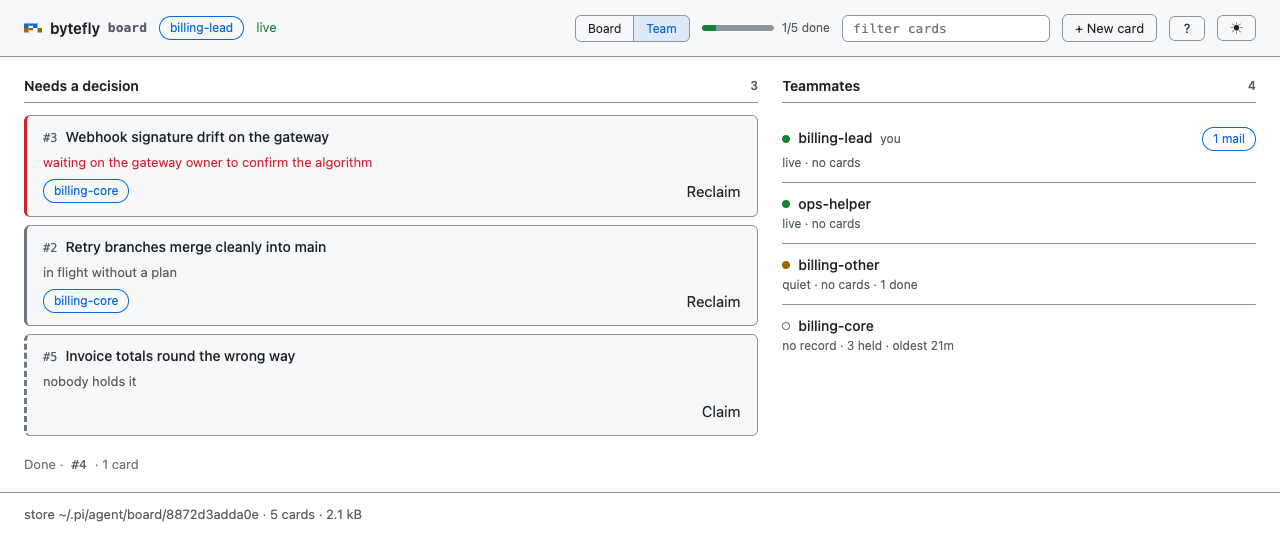
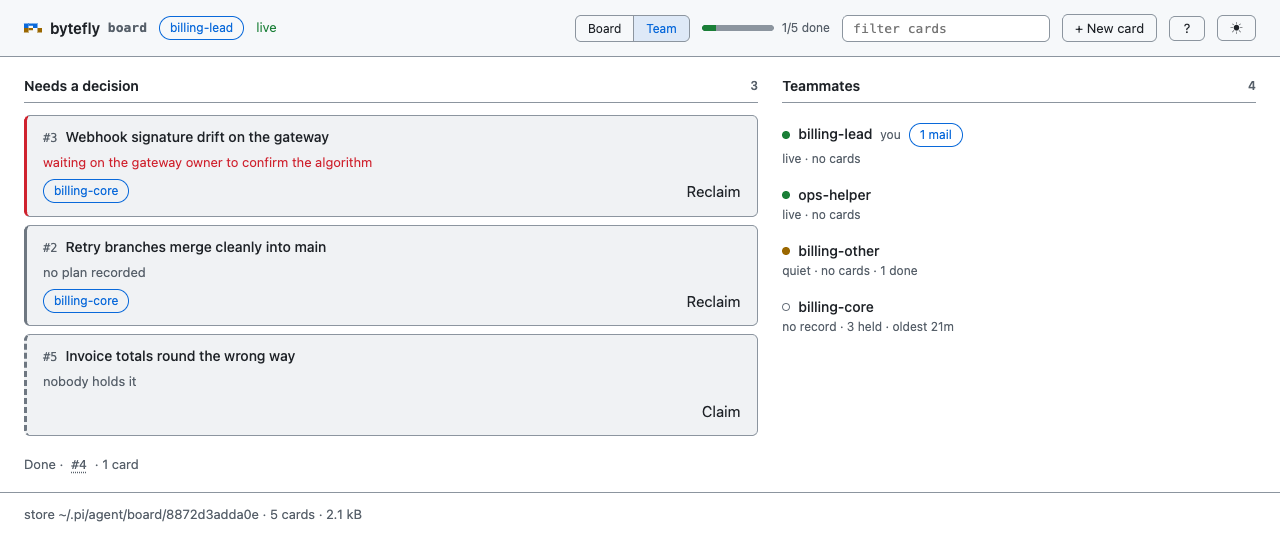
fix(board): take the outline weight down in the dark theme
Nine findings from a review of the cool theme, all of them about the page reading as
outlined boxes instead of a dashboard.

- The kit gains `--raised`: `--surface` mixed 6% toward `--text` in the dark theme and
  3% in the light one, because `--surface` on `--canvas` is 1.09:1 and a block that dark
  cannot lift off the page. The light step is smaller on purpose — at the dark step the
  light accent on a raised row falls to 4.34:1, below AA.
- Decision rows sit on it, and the roster drops the hairline it drew under every row:
  the caption's rule already delimits the list, and a second pen beside it was the same
  weight drawn twice.
- The Done lane sits on the page rather than on a surface, so history stops competing
  with the lanes a lead works in.
- The reason line stops speaking three grammars: a blocked card shows its last note
  without a `blocked:` prefix, an unplanned one says `no plan recorded`, a planned one
  says `planned` — the same words the Team tab's queue uses.
- A teammate's mail badge moves beside the name instead of flying to the row's far
  edge, the Done strip's ids wear a dotted line so they look like the buttons they are,
  and the two greys for quiet text become one.
- The note composer is one line of input rather than a second bordered footer.
- A dialog focuses its panel when the panel names itself focusable, so the ring lands
  on the window instead of the close button, and Shift+Tab still wraps inside the scrim.

diff --git a/extensions/board/view/styles.ts b/extensions/board/view/styles.ts
@@ -58,6 +58,7 @@ ${WEB_COMPONENTS_CSS}
 .board-lane__dot{width:var(--space-2);height:var(--space-2);border-radius:var(--radius-pill);background:var(--muted)}
 .board-lane[data-status="doing"] .board-lane__dot{background:var(--accent)}
 .board-lane[data-status="blocked"] .board-lane__dot{background:var(--danger)}
+.board-lane[data-status="done"]{background:var(--canvas)}
 .board-lane[data-status="done"] .board-lane__dot{background:var(--success)}
 .board-lane__list{display:flex;flex-direction:column;gap:var(--space-3);margin:0;padding:0;list-style:none}
 .board-lane__empty{margin:0;font:var(--fs-sm) var(--font-ui);color:var(--dim)}
@@ -91,7 +92,7 @@ ${WEB_COMPONENTS_CSS}
 .board-team__caption .bf-chip{margin-left:auto;font-variant-numeric:tabular-nums}
 /* The queue: one row per card, its kind as an edge, its way out in the foot. */
 .board-team__queue{display:flex;flex-direction:column;gap:var(--space-2);min-width:0}
-.board-team__decision{display:flex;flex-direction:column;gap:var(--space-2);padding:var(--space-3) var(--space-4);background:var(--surface);border:1px solid var(--border);border-left:3px solid var(--dim);border-radius:var(--radius-md);transition:border-color var(--motion-base) var(--motion-ease),transform var(--motion-base) var(--motion-ease)}
+.board-team__decision{display:flex;flex-direction:column;gap:var(--space-2);padding:var(--space-3) var(--space-4);background:var(--raised);border:1px solid var(--border);border-left:3px solid var(--dim);border-radius:var(--radius-md);transition:border-color var(--motion-base) var(--motion-ease),transform var(--motion-base) var(--motion-ease)}
 .board-team__decision:hover{border-color:var(--border-strong);transform:translateY(-1px)}
 .board-team__decision[data-kind="blocked"]{border-left-color:var(--danger)}
 .board-team__decision[data-kind="idle"]{border-left-color:var(--warn)}
@@ -108,21 +109,23 @@ ${WEB_COMPONENTS_CSS}
 /* A row with no owner chip still puts its one action on the row's edge. */
 .board-team__foot>.bf-btn:only-child{margin-left:auto}
 /* The roster: who is here and what they hold. No hover fill — nothing to open. */
-.board-team__roster{display:flex;flex-direction:column;margin:0;padding:0;list-style:none;min-width:0}
-.board-team__mate{display:flex;flex-wrap:wrap;align-items:baseline;gap:var(--space-1) var(--space-2);padding:var(--space-3) 0;border-bottom:1px solid var(--border);min-width:0}
-.board-team__mate:last-child{border-bottom:0}
+.board-team__roster{display:flex;flex-direction:column;gap:var(--space-1);margin:0;padding:0;list-style:none;min-width:0}
+/* No row rule: the caption already delimits the list, and a second hairline beside it
+   was the same pen drawn twice. */
+.board-team__mate{display:flex;flex-wrap:wrap;align-items:baseline;gap:var(--space-1) var(--space-2);padding:var(--space-2) 0;min-width:0}
 .board-team__dot{width:8px;height:8px;border-radius:var(--radius-pill);background:var(--muted);flex:0 0 auto;align-self:center}
 .board-team__mate[data-state="live"] .board-team__dot{background:var(--success)}
 .board-team__mate[data-state="quiet"] .board-team__dot{background:var(--warn)}
 /* A record that is not there is a hollow ring, never a colour that claims it is. */
 .board-team__mate[data-state="absent"] .board-team__dot,.board-team__mate[data-state="unknown"] .board-team__dot{background:transparent;box-shadow:inset 0 0 0 1px var(--border-strong)}
 .board-team__name{font:var(--fw-medium) var(--fs-md) var(--font-ui);color:var(--text)}
-.board-team__mate .bf-chip--accent{margin-left:auto}
 .board-team__mets{flex:1 0 100%;margin:0;color:var(--muted);font:var(--fs-xs) var(--font-ui)}
 .board-team__empty{margin:0;color:var(--muted);font:var(--fs-sm) var(--font-ui)}
 /* Done stays quiet; its ids are buttons only because they open their card. */
-.board-team__done,.board-done{margin:0;font:var(--fs-sm) var(--font-ui);color:var(--dim);display:flex;flex-wrap:wrap;align-items:baseline;gap:var(--space-2)}
-.board-team__id{appearance:none;border:0;background:none;padding:0;margin:0;cursor:pointer;font:var(--fs-sm) var(--font-mono);color:var(--muted)}
+.board-team__done,.board-done{margin:0;font:var(--fs-sm) var(--font-ui);color:var(--muted);display:flex;flex-wrap:wrap;align-items:baseline;gap:var(--space-2)}
+/* An id in the Done strip is a button, so it wears the only affordance it has: a
+   dotted line, visible before the pointer arrives. */
+.board-team__id{appearance:none;border:0;background:none;padding:0;margin:0;cursor:pointer;font:var(--fs-sm) var(--font-mono);color:var(--muted);text-decoration:underline dotted;text-underline-offset:3px}
 .board-team__id:hover{color:var(--accent);text-decoration:underline}
 
 /* The card dialog: a meta line, the notes as a timeline, and the actions at its foot. */
@@ -143,7 +146,9 @@ ${WEB_COMPONENTS_CSS}
 .board-dialog__state[data-status="doing"]::before{background:var(--accent)}
 .board-dialog__state[data-status="blocked"]::before{background:var(--danger)}
 .board-dialog__state[data-status="done"]::before{background:var(--success)}
+.board-dialog__note-composer{display:grid;grid-template-columns:minmax(0,1fr) auto;align-items:center;gap:var(--space-2);padding:0;border:0;background:none}
 .board-dialog__note-composer .bf-field{margin:0}
+.board-dialog__note-composer .bf-composer__row{margin:0}
 .board-confirm__body{margin:0}
 .board-skeleton{height:4.5rem;border:1px dashed var(--border);border-radius:var(--radius-md);background:var(--surface)}
 

diff --git a/lib/web/tokens.ts b/lib/web/tokens.ts
@@ -21,8 +21,8 @@ interface ThemeJson {
 const DARK = darkTheme as unknown as ThemeJson;
 const LIGHT = lightTheme as unknown as ThemeJson;
 
-/** Web custom property -> Bytefly theme var. `--accent-soft`, `--on-accent`, `--scrim`,
- * and `--shadow` are derived, so no appearance-only colour enters the kit. */
+/** Web custom property -> Bytefly theme var. `--accent-soft`, `--raised`, `--on-accent`,
+ * `--scrim`, and `--shadow` are derived, so no appearance-only colour enters the kit. */
 const VAR_TOKENS: ReadonlyArray<readonly [string, string]> = [
 	["--canvas", "canvas"],
 	["--surface", "canvasSubtle"],
@@ -73,6 +73,16 @@ function resolve(theme: ThemeJson, value: string | number): string {
 	return theme.vars[value] ?? value;
 }
 
+/** `#rrggbb` mixed toward another colour: `t` of the way from `a` to `b`. */
+function mix(a: string, b: string, t: number): string {
+	const channel = (hex: string, at: number): number => Number.parseInt(hex.replace("#", "").slice(at, at + 2), 16);
+	const between = (x: number, y: number): number => Math.round(x + (y - x) * t);
+	const r = between(channel(a, 0), channel(b, 0));
+	const g = between(channel(a, 2), channel(b, 2));
+	const bl = between(channel(a, 4), channel(b, 4));
+	return `#${[r, g, bl].map((value) => value.toString(16).padStart(2, "0")).join("")}`;
+}
+
 /** `#rrggbb` (or `#rgb`) plus alpha -> `rgba(r,g,b,a)`. */
 function rgba(hex: string, alpha: number): string {
 	const raw = hex.replace("#", "");
@@ -94,6 +104,15 @@ function rgba(hex: string, alpha: number): string {
  * lifts a panel off it, so each appearance needs its own alpha rather than the
  * theme's colours.
  */
+/**
+ * How far `--raised` sits above `--surface`: enough to see, not enough to shout.
+ *
+ * The light theme takes a smaller step because its accent is darker: at the dark
+ * step, `--accent` on `--raised` falls to 4.34:1 and the owner chips on a raised row
+ * stop being readable.
+ */
+const RAISED_STEP: Record<"dark" | "light", number> = { dark: 0.06, light: 0.03 };
+
 const OVERLAYS: Record<"dark" | "light", { scrim: string; shadow: string }> = {
 	dark: { scrim: "rgba(0,0,0,.5)", shadow: "0 8px 24px rgba(0,0,0,.4)" },
 	light: { scrim: "rgba(15,23,42,.3)", shadow: "0 8px 24px rgba(15,23,42,.14)" },
@@ -104,6 +123,10 @@ function paletteOf(theme: ThemeJson, appearance: "dark" | "light", accentAlpha: 
 	const palette: Record<string, string> = {};
 	for (const [token, name] of VAR_TOKENS) palette[token] = theme.vars[name];
 	palette["--accent-soft"] = rgba(palette["--accent"] ?? "#000000", accentAlpha);
+	// One step above `--surface`, for a block that must read as a plane rather than an
+	// outline: the theme offers only two neutral fills, and a surface one hairline
+	// lighter than the page is what made a dashboard look like a wireframe.
+	palette["--raised"] = mix(palette["--surface"] ?? "#000000", palette["--text"] ?? "#ffffff", RAISED_STEP[appearance]);
 	// A label on the accent fill is the canvas colour: a light blue button takes dark
 	// text, and the same derivation gives white on the light theme's darker blue.
 	palette["--on-accent"] = palette["--canvas"];

diff --git a/lib/web/web.test.ts b/lib/web/web.test.ts
@@ -71,7 +71,7 @@ describe("web tokens", () => {
 	test("keeps body text at WCAG AA against both surfaces", () => {
 		for (const appearance of ["dark", "light"] as const) {
 			const tokens = WEB_THEME_TOKENS[appearance];
-			for (const surface of ["--canvas", "--surface"]) {
+			for (const surface of ["--canvas", "--surface", "--raised"]) {
 				expect(contrast(tokens["--text"], tokens[surface]), `${appearance} text/${surface}`).toBeGreaterThanOrEqual(
 					4.5,
 				);
@@ -83,6 +83,22 @@ describe("web tokens", () => {
 				);
 			}
 		}
+	});
+
+	test("derives a raised surface one visible step above the page's", () => {
+		for (const appearance of ["dark", "light"] as const) {
+			const tokens = WEB_THEME_TOKENS[appearance];
+			// A block that must read as a plane needs more than the 1.09:1 a surface has
+			// against the canvas, and less than the border it sits inside.
+			expect(contrast(tokens["--raised"], tokens["--canvas"]), `${appearance} raised`).toBeGreaterThanOrEqual(1.1);
+			expect(tokens["--raised"]).not.toBe(tokens["--surface"]);
+		}
+	});
+
+	test("focuses a dialog's panel when the panel names itself focusable", () => {
+		// The close button used to take the ring on every open, which put the eye in a
+		// corner before it reached the content.
+		expect(dialogScript({ dialogId: "x" })).toContain('[role="dialog"][tabindex]');
 	});
 
 	test("keeps status colours legible as UI", () => {
@@ -111,7 +127,7 @@ describe("web tokens", () => {
 		// numbered column, so it has to stay above the large-text threshold.
 		for (const appearance of ["dark", "light"] as const) {
 			const tokens = WEB_THEME_TOKENS[appearance];
-			for (const surface of ["--canvas", "--surface"]) {
+			for (const surface of ["--canvas", "--surface", "--raised"]) {
 				expect(contrast(tokens["--dim"], tokens[surface]), `${appearance} dim/${surface}`).toBeGreaterThanOrEqual(3);
 			}
 		}

diff --git a/lib/web/runtime.ts b/lib/web/runtime.ts
@@ -123,9 +123,15 @@ export function dialogScript(options: DialogOptions): string {
   // A button inside a closed dialog has no boxes, so the rects are the test that
   // survives a hidden attribute, a collapsed panel, and a stylesheet swap alike.
   function focusables() {
-    return Array.prototype.filter.call(dialog.querySelectorAll('${FOCUSABLE}'), function (node) {
+    var nodes = Array.prototype.filter.call(dialog.querySelectorAll('${FOCUSABLE}'), function (node) {
       return node.getClientRects && node.getClientRects().length > 0;
     });
+    // A panel that names itself focusable is where focus lands on open, so the close
+    // button is not the first thing a dialog says with its ring. It stays first in the
+    // list, which is what keeps Shift+Tab wrapping inside instead of escaping the scrim.
+    var panel = dialog.querySelector('[role="dialog"][tabindex]');
+    if (panel && panel.getClientRects && panel.getClientRects().length > 0) nodes.unshift(panel);
+    return nodes;
   }
   function toggle(force) {
     var open = force === undefined ? dialog.hidden : force;

diff --git a/extensions/board/view/render.ts b/extensions/board/view/render.ts
@@ -98,12 +98,13 @@ export const BOARD_RENDER_JS = String.raw`(function () {
   function reasonOf(card) {
     var last = card.notes.length > 0 ? card.notes[card.notes.length - 1] : undefined;
     if (card.status === "blocked") {
-      return { text: last ? "blocked: " + last.text : "blocked", kind: "blocked" };
+      // The lane already says blocked and the tone already says danger; the line says why.
+      return { text: last ? last.text : "blocked, with nothing recorded", kind: "blocked" };
     }
     if (card.status === "doing" && !card.plan) {
-      return { text: "unplanned — no plan recorded", kind: "unplanned" };
+      return { text: "no plan recorded", kind: "unplanned" };
     }
-    if (card.status === "doing") return { text: "✓ planned", kind: "plan" };
+    if (card.status === "doing") return { text: "planned", kind: "plan" };
     if (card.status === "done") return { text: "✓ done" + (card.owner ? " by " + card.owner.label : ""), kind: "done" };
     return last ? { text: last.text, kind: "note" } : undefined;
   }

diff --git a/extensions/board/view/page.ts b/extensions/board/view/page.ts
@@ -103,7 +103,7 @@ ${docHead({ title: "board", css: BOARD_CSS })}
 </div>
 
 <div class="bf-dialog" id="board-card-dialog" hidden>
-  <div class="bf-dialog__panel" role="dialog" aria-modal="true" aria-labelledby="card-dialog-title">
+  <div class="bf-dialog__panel" role="dialog" aria-modal="true" aria-labelledby="card-dialog-title" tabindex="-1">
     <div class="bf-dialog__head">
       <h2 id="card-dialog-title"></h2>
       <span class="board-dialog__state" id="card-dialog-state"></span>
@@ -129,7 +129,7 @@ ${docHead({ title: "board", css: BOARD_CSS })}
 </div>
 
 <div class="bf-dialog board-confirm" id="board-confirm" hidden>
-  <div class="bf-dialog__panel" role="dialog" aria-modal="true" aria-labelledby="confirm-title">
+  <div class="bf-dialog__panel" role="dialog" aria-modal="true" aria-labelledby="confirm-title" tabindex="-1">
     <div class="bf-dialog__head"><h2 id="confirm-title"></h2></div>
     <div class="bf-dialog__body"><p class="board-confirm__body" id="confirm-body"></p></div>
     <div class="bf-dialog__actions">

diff --git a/extensions/board/view/pages.test.ts b/extensions/board/view/pages.test.ts
@@ -206,6 +206,15 @@ describe("the client bundle", () => {
 		expect(BOARD_CLIENT_JS).toContain("window.bfNew.open()");
 	});
 
+	test("says why in one voice, and lets the reason carry it", () => {
+		// Three grammars in one slot read as three different kinds of fact: a status
+		// prefix that repeated the lane, an em-dash clause, and a tick.
+		expect(BOARD_CLIENT_JS).not.toContain('"blocked: "');
+		expect(BOARD_CLIENT_JS).not.toContain("unplanned — no plan recorded");
+		expect(BOARD_CLIENT_JS).not.toContain("✓ planned");
+		expect(BOARD_CLIENT_JS).toContain('"no plan recorded"');
+	});
+
 	test("never parses a stored field", () => {
 		// `innerHTML` is the whole injection surface of a page like this one.
 		expect(BOARD_CLIENT_JS).not.toContain("innerHTML");

diff --git a/extensions/board/view/team.ts b/extensions/board/view/team.ts
@@ -66,7 +66,8 @@ export const BOARD_TEAM_JS = String.raw`(function () {
       return last ? last.text : "blocked";
     }, "blocked");
     add(round.idle, function (card) { return "no touch for " + ago(card.updatedAt); }, "idle");
-    add(round.unplanned, function () { return "in flight without a plan"; }, "unplanned");
+    // The board card says the same words for the same fact: one voice for one state.
+    add(round.unplanned, function () { return "no plan recorded"; }, "unplanned");
     add(round.unassigned, function () { return "nobody holds it"; }, "unassigned");
     return entries;
   }

diff --git a/docs/extensions/board.md b/docs/extensions/board.md
@@ -97,12 +97,15 @@ pinned and makes the main pane the only scroll box; the page adds no second one.
 | Toolbar | the mark, the serving session as a chip, a live badge (`connecting`, `live · 3m`, `reconnecting`), then one group: the Board\|Team switch, done-of-total progress, a filter, **+ New card**, the keys button, and the theme toggle |
 | New card dialog | the modal the toolbar's button (or `n`) opens: a title, space-separated path hints, the hint line, `Cancel`, and **Add card**; it stays open after an add, so a lead can publish several cards, and a draft survives `Esc` or a backdrop click |
 | Lanes | trays, not a bare list: four columns at ≥1180, two rows at 1000, one lane plus the lane switch at ≤860 — where it opens on the first lane that holds a card. Each head sticks while the pane scrolls, carries its count as a pill, and folds its cards away |
-| Cards | the id and a two-line title (the page's loudest text), an owner chip and an age, path chips, one reason line (clamped, with the whole sentence as its tooltip), and at most three actions — `Claim` or `Move` bordered, then `Note` and `Open`. A hovered card lifts a pixel; a finished one recedes, title and owner chip muted |
+| Cards | the id and a two-line title (the page's loudest text), an owner chip and an age, path chips, one reason line in one voice — a blocked card's last note, `no plan recorded`, or `planned` — clamped, with the whole sentence as its tooltip, and at most three actions — `Claim` or `Move` bordered, then `Note` and `Open`. A hovered card lifts a pixel; a finished one recedes, title and owner chip muted |
 | Team | two panels and a strip. **Needs a decision** is one row per card: its kind as a left edge (`--danger` blocked, `--warn` idle, `--muted` unplanned, a dashed grey edge for nobody's), the reason on its own line with the whole sentence as its tooltip, and the way out on the row's edge — `Reclaim` when someone holds it, `Claim` when nobody does. **Teammates** is one row per person — a state dot, the label, a `you` chip, a mail badge, then `live · 3 held · 1 done · oldest 21m` — sorted you, live, quiet, no record, and an owner whose label nothing answers to keeps its row. Done is one quiet strip whose ids open their cards. Both panels honour the toolbar's filter, and their headings read `shown/total` the way a lane head does. Below 1180px the queue comes first and the roster follows |
 | Card dialog | the lane as a dot and a word beside the title, a meta line, the owner, the paths, the plan as monospace text, the notes as a timeline (who and when above the sentence, a rule between them), a note field, and `Move to` only the lanes the card can reach, then `Release`, `Drop`, `Close` |
 
 Colour is a role: `--muted` for `todo`, `--accent` for `doing`, `--danger` for
-`blocked` and destructive choices, `--success` for `done`. A card takes its colour
+`blocked` and destructive choices, `--success` for `done`. The Team tab's decision
+rows sit on the kit's `--raised`, the one step above `--surface` that lets a block read
+as a plane instead of an outline; the Done lane sits on the page itself, so history
+stops competing with the lanes a lead works in. A card takes its colour
 from the lane it sits in — the head's dot, and the reason line's tone — rather than
 from a bar of its own, so one card does not shout twice. The page states a lane and
 a card with `data-status`, so a theme change repaints it without a rule of its own.

diff --git a/CHANGELOG.md b/CHANGELOG.md
@@ -27,7 +27,13 @@ to [Semantic Versioning](https://semver.org/spec/v2.0.0.html).
   mail, and what it holds; an owner whose label nothing answers to keeps its row, and
   with `session-bus` unloaded every state reads `—` and the tab behaves as it did.
   An owner whose last card is done keeps its row instead of vanishing from the rollup
-  the moment the work ends.
+  the moment the work ends. A review pass in the dark theme then took the page's
+  outline weight down: decision rows sit on a new `--raised` step above `--surface`
+  instead of a hairline box, the roster drops its per-row rules, the Done lane sits on
+  the page so history stops competing, the reason line speaks one voice (`no plan
+  recorded`, `planned`, or the blocked card's note), a teammate's mail badge sits beside
+  its name, the Done strip's ids carry a dotted line, and a dialog focuses its panel
+  rather than its close button — so the ring lands on the window, not in a corner.
   Its modals are the kit's `bf-dialog` behind one `dialogScript` (the Tab trap,
   `Esc`, the backdrop click, and the focus return the shared contract promises),
   replacing the page's own native-dialog implementation, and a closed tab lets the

diff --git a/lib/web/README.md b/lib/web/README.md
@@ -34,7 +34,10 @@ are computed rather than mapped:
 - `--scrim` and `--shadow` — per appearance, because a dimming layer and a lifted
   panel need their own alpha rather than a palette entry.
 
-Components read tokens only: no literal hex or `rgba()` in `components.ts`, and a
+`--raised` is the one derived neutral: `--surface` mixed 6% (dark) or 3% (light)
+toward `--text`, for a block that has to read as a plane above the page rather than
+as an outline — the light step is smaller because a darker accent on a lighter step
+falls below AA. Components read tokens only: no literal hex or `rgba()` in `components.ts`, and a
 test fails one. Contrast is asserted, not assumed — text, muted, and accent at
 4.5:1 on both surfaces, the primary label at 4.5:1 on the accent fill, `--dim` at
 3:1 because it carries the line-number gutter, and the status colours at 3:1.
